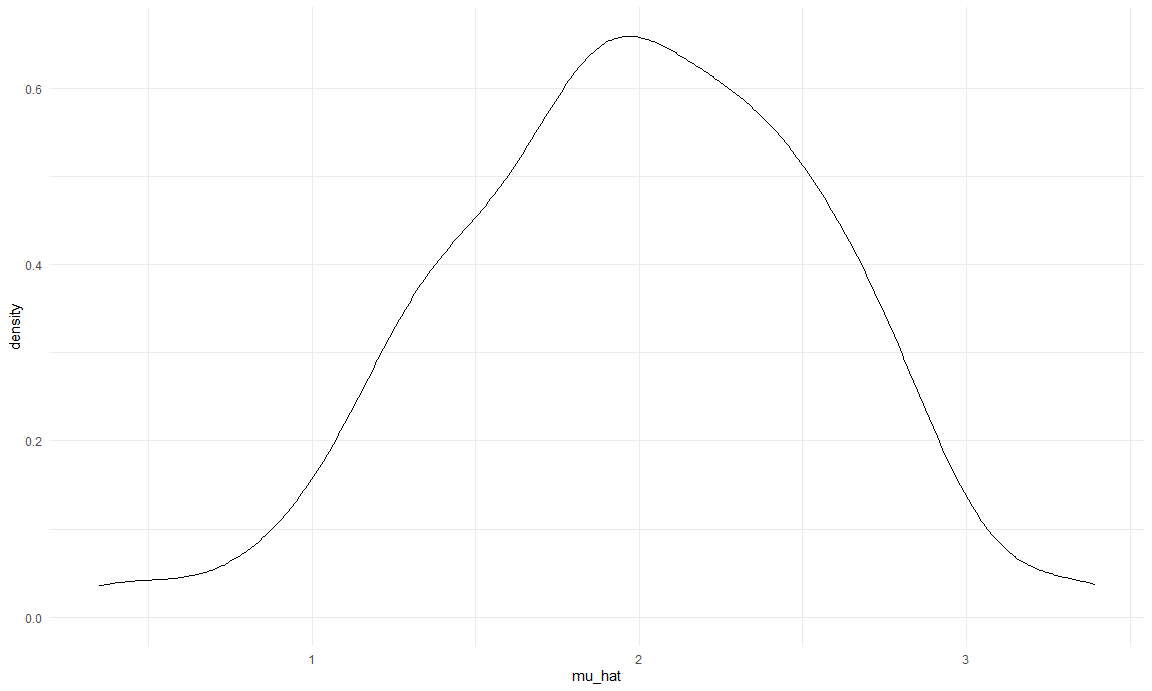
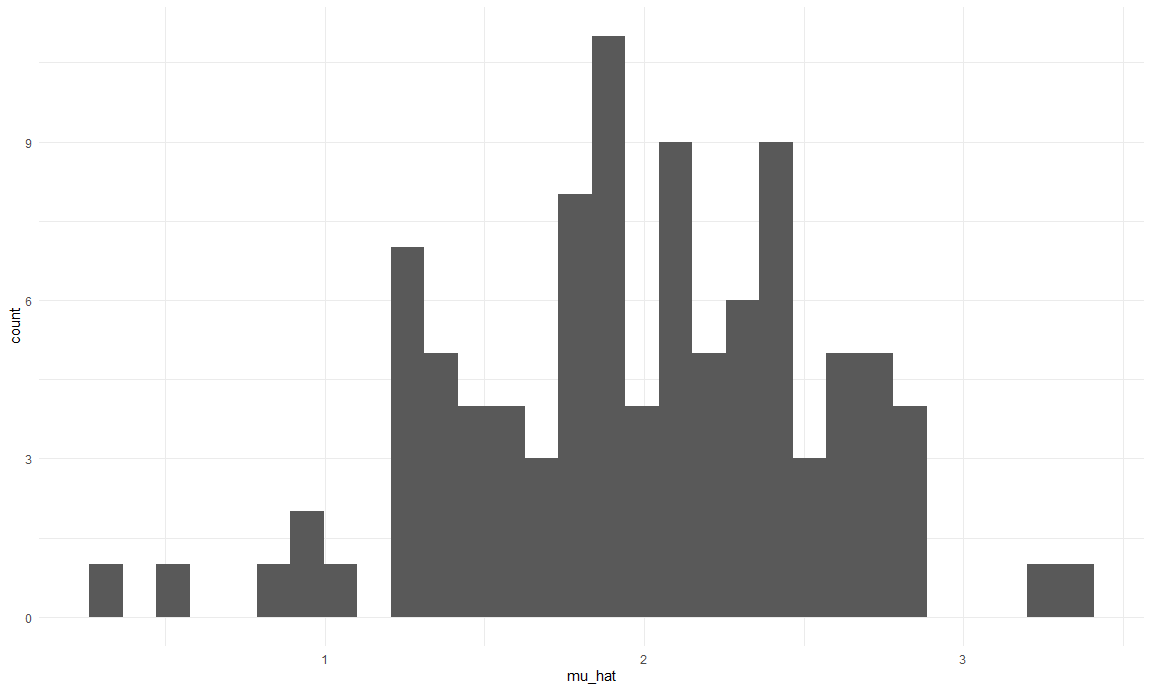
simulations for different sample sizes and plot distributions

diff --git a/simulation.md b/simulation.md
@@ -82,7 +82,76 @@ Let’s look at the results.
 ``` r
 sim_results %>% 
   ggplot(aes(x = mu_hat)) + 
-  geom_density()
+  geom_histogram()
 ```
 
+    ## `stat_bin()` using `bins = 30`. Pick better value with `binwidth`.
+
 <img src="simulation_files/figure-gfm/unnamed-chunk-4-1.png" width="90%" />
+
+Let’s try other samole sizes
+
+``` r
+n_list = 
+  list(
+    "n_30"  = 30, 
+    "n_60"  = 60, 
+    "n_120" = 120, 
+    "n_240" = 240)
+
+output = vector("list", length = 4)
+
+for (i in 1:4) {
+  output[[i]] = rerun(100, sim_mean_sd(n_list[[i]])) %>% 
+    bind_rows
+}
+```
+
+``` r
+sim_results = 
+  tibble(sample_size = c(30, 60, 120, 240)) %>% 
+  mutate(
+    output_lists = map(.x = sample_size, ~rerun(100, sim_mean_sd(n = .x))),
+    estimate_dfs = map(output_lists, bind_rows)) %>% 
+  select(-output_lists) %>% 
+  unnest(estimate_dfs)
+```
+
+Do some data frame things.
+
+``` r
+sim_results %>% 
+  mutate(
+    sample_size = str_c("n = ", sample_size),
+    sample_size = fct_inorder(sample_size)) %>% 
+  ggplot(aes(x = sample_size, y = mu_hat, fill = sample_size)) + 
+  geom_violin()
+```
+
+<img src="simulation_files/figure-gfm/unnamed-chunk-7-1.png" width="90%" />
+
+``` r
+sim_results %>% 
+  pivot_longer(
+    mu_hat:sigma_hat,
+    names_to = "parameter", 
+    values_to = "estimate") %>% 
+  group_by(parameter, sample_size) %>% 
+  summarize(
+    emp_mean = mean(estimate),
+    emp_var = var(estimate)) %>% 
+  knitr::kable(digits = 3)
+```
+
+    ## `summarise()` regrouping output by 'parameter' (override with `.groups` argument)
+
+| parameter  | sample\_size | emp\_mean | emp\_var |
+| :--------- | -----------: | --------: | -------: |
+| mu\_hat    |           30 |     1.969 |    0.354 |
+| mu\_hat    |           60 |     1.987 |    0.154 |
+| mu\_hat    |          120 |     1.979 |    0.070 |
+| mu\_hat    |          240 |     2.014 |    0.032 |
+| sigma\_hat |           30 |     3.003 |    0.155 |
+| sigma\_hat |           60 |     2.945 |    0.062 |
+| sigma\_hat |          120 |     2.976 |    0.031 |
+| sigma\_hat |          240 |     3.017 |    0.014 |
